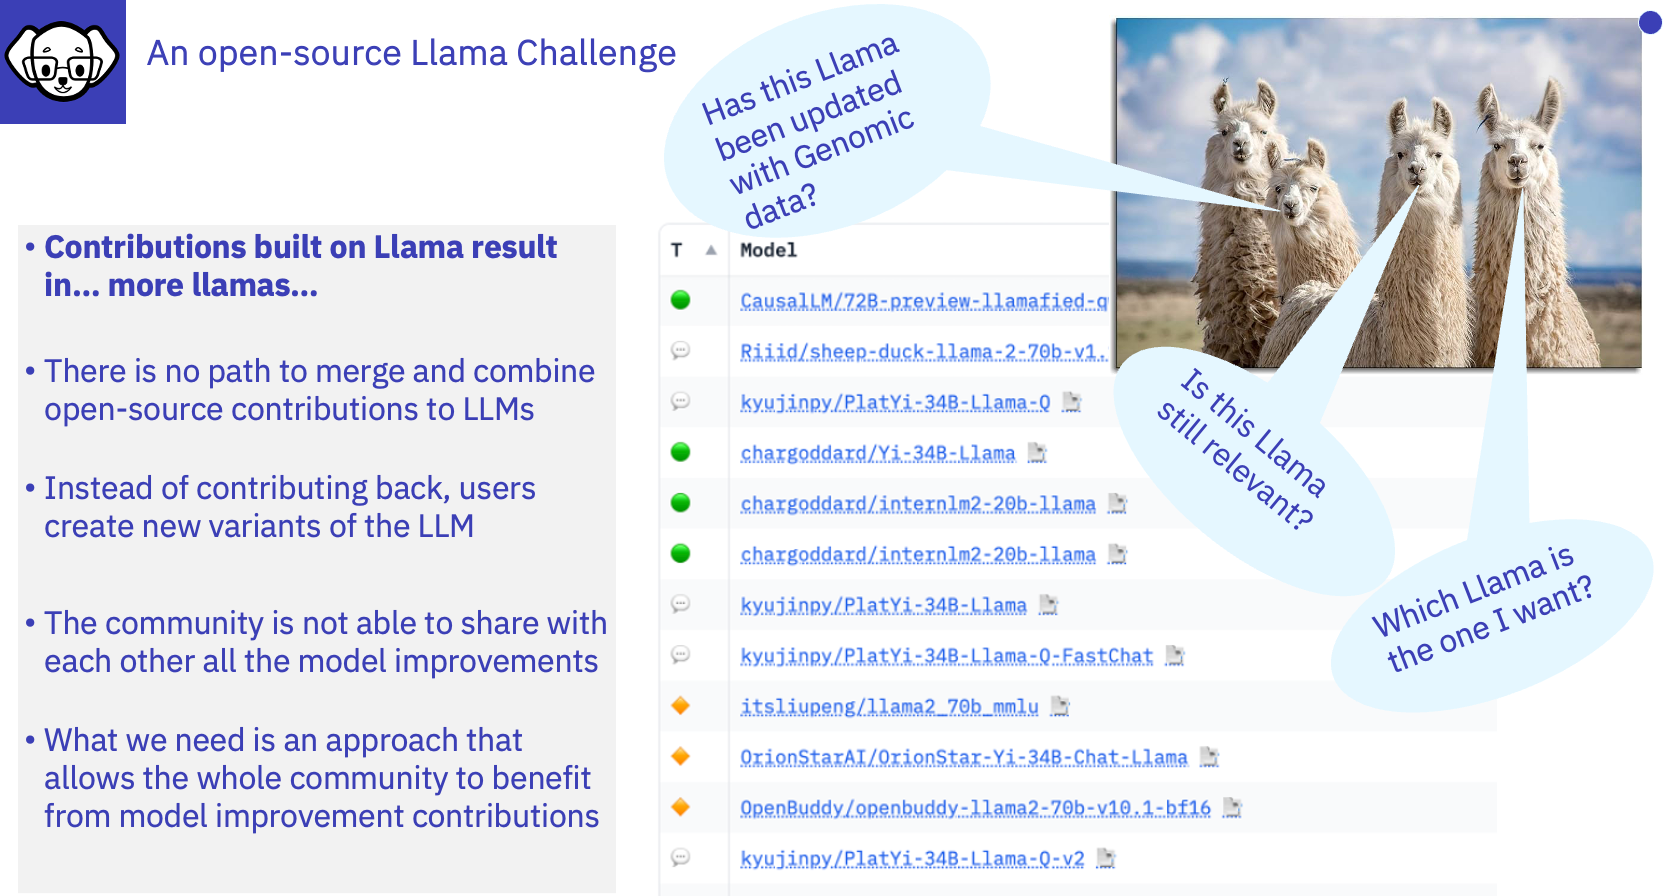
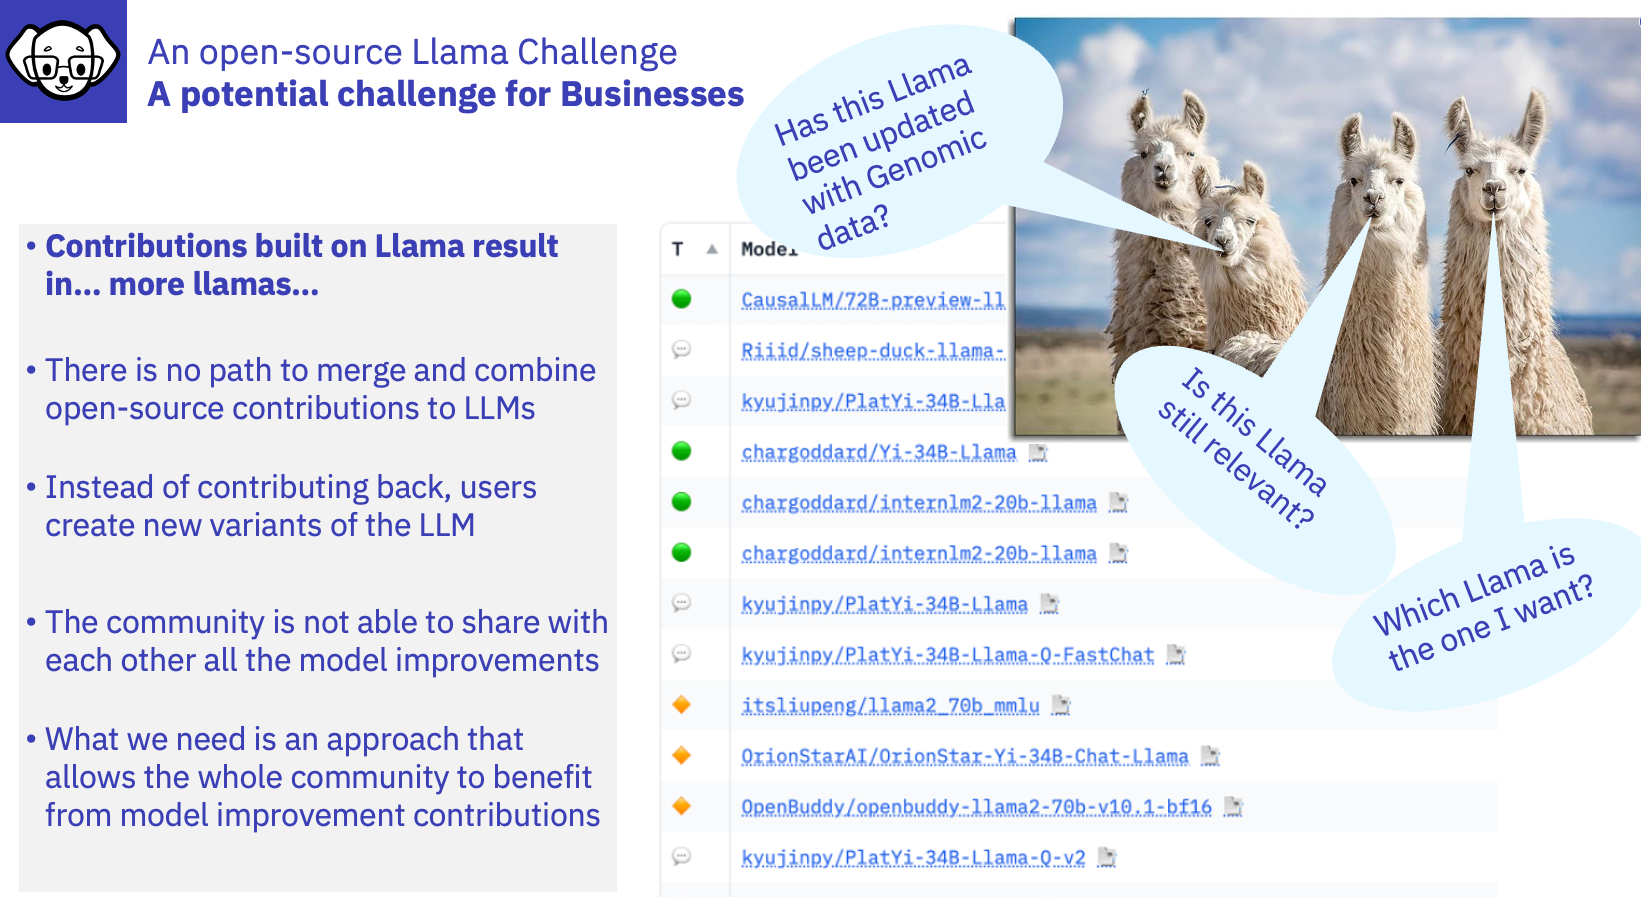
updates

diff --git a/showroom_instructlab_summit2024/content/course _content/0-25 InstructLab and how it helps.md b/showroom_instructlab_summit2024/content/course _content/0-25 InstructLab and how it helps.md
@@ -10,59 +10,14 @@ InstructLab is an **open-source project** originating from IBM Research and Red 
 
 ---
 
-# What you can do with InstructLab
 
-![What InstructLab does](graphics/ILprocess.png)
+# What InstructLab enables businesses to do
 
----
+- Add thier propriatory data to their own model - that is only available to who they choose to share it with
+- Provides a means to easily add their knowledge (manuals, HR processes, procedures)
+- Enables them to add skills (how to guides, translate company specific acronyms)
+- Provides some ability to control and govern the development of their in-house LLM
+- Enables the organisation to capture the providence of information added to the model 
 
-# InstructLab Taxonomy Overview
-
-![InstructLab workflow](graphics/Instructlabtaxonomyoverview.png)
-
-InstructLab is an open source project for enhancing large language models (LLMs) used in generative artificial intelligence (gen AI) applications. Created by IBM and Red Hat, the InstructLab community project provides a cost-effective solution for improving the alignment of LLMs and opens the doors for those with minimal machine learning experience to contribute.
-
-InstructLab, offers developers a powerful toolset to enhance Large Language Models (LLMs) for specific business needs. By addressing the challenges of fine-tuning and deploying LLMs, InstructLab streamlines the training process through taxonomy-driven data curation, large-scale synthetic data generation, and a multi-phased instruction-tuning framework.
-
-
-## The LAB method consists of 3 components:
-- **Taxonomy-driven data curation** Taxonomy is a set of diverse training data curated by humans as examples of new knowledge and skills for the model.
-- **Large-scale synthetic data generation** The model is then used to generate new examples based on the seed training data. Recognizing that synthetic data can vary in quality, the LAB method adds an automated step to refine the example answers, making sure they’re grounded and safe.
-- **Iterative, large-scale alignment tuning** Finally, the model is retrained based on the set of synthetic data. The LAB method includes 2 tuning phases: knowledge tuning, followed by skill tuning.
-
-## Instruct Lab is:
-- an Open-Source project
-- Cost-effective solution for improving the alignment of LLMs 
-- It democratises AI 
-  - You do not have to know linear algebra, statistics, probability theory  
-  - You do not have to be a programmer and know python and r 
-  - You don’t have to know how to do a Pearson correlation or any of the other methods of analysing data  
-
-              
-
-In reality, we all possess valuable knowledge and skills. By capturing this information in flat text files, we can collectively contribute to the development of models using InstructLab. These contribution can be directed towards the original model or tailored to a private model preferred by a client.
-
----
-
-## InstructLab and open source
-We see many Large language models are flourishing in the open, but most are still built in silos. Communities can form around a model, but their contributions can take months or years to be merged back to the base model — if they make their way back at all.
-“There’s no good way to combine all of that innovation into a coherent whole,” said David Cox, vice president for AI models at IBM Research.  InstructLab, is designed to change this by gives communities the tools to create and merge changes to LLMs without having to retrain the model from scratch, making LLMs more like any other open-source software project.
-
----
-
-## How InstructLab operates
-InstructLab operates by augmenting human-curated data with high-quality examples generated by an LLM, thereby reducing the cost of data creation. The data generated by InstructLab can be used to customize or enhance the base model without necessitating a complete retraining, resulting in significant savings. IBM Research has utilized InstructLab to generate synthetic data, enhancing its open-source Granite models for language and code.
-
----
-
-## Links to some papers, blogs, and videos, that provide an overview of InstructLab
-
-[How InstructLab’s synthetic data generation enhances LLMs](https://www.redhat.com/en/blog/how-instructlabs-synthetic-data-generation-enhances-llms)
-by [Cedric Clyburn](https://www.redhat.com/en/authors/cedric-clyburn), and [Legare Kerrison](https://www.redhat.com/en/authors/legare-kerrison)
-
-[Video of Open Source Community Instruction-tuning of Large Lanaguage Models](https://www.youtube.com/watch?v=l-Nq2b8Y-mA)
-presented by [BJ Hargrave](https://www.linkedin.com/in/bjhargrave/)
-
-["InstructLab and why do developers need it?" by Syea Aneeba Begum](https://developer.ibm.com/articles/awb-instructlab-why-developers-need-it/)
 
 

diff --git a/showroom_instructlab_summit2024/content/course _content/0-26 What you can do with InstructLab.md b/showroom_instructlab_summit2024/content/course _content/0-26 What you can do with InstructLab.md
@@ -1,0 +1,58 @@
+# What you can do with InstructLab
+
+![What InstructLab does](graphics/ILprocess.png)
+
+---
+
+# Further Reading (this will be covered in later sections)
+
+# InstructLab Taxonomy and Process Overview
+
+![InstructLab workflow](graphics/Instructlabtaxonomyoverview.png)
+
+InstructLab is an open source project for enhancing large language models (LLMs) used in generative artificial intelligence (gen AI) applications. Created by IBM and Red Hat, the InstructLab community project provides a cost-effective solution for improving the alignment of LLMs and opens the doors for those with minimal machine learning experience to contribute.
+
+InstructLab, offers developers a powerful toolset to enhance Large Language Models (LLMs) for specific business needs. By addressing the challenges of fine-tuning and deploying LLMs, InstructLab streamlines the training process through taxonomy-driven data curation, large-scale synthetic data generation, and a multi-phased instruction-tuning framework.
+
+
+## The LAB method consists of 3 components:
+- **Taxonomy-driven data curation** Taxonomy is a set of diverse training data curated by humans as examples of new knowledge and skills for the model.
+- **Large-scale synthetic data generation** The model is then used to generate new examples based on the seed training data. Recognizing that synthetic data can vary in quality, the LAB method adds an automated step to refine the example answers, making sure they’re grounded and safe.
+- **Iterative, large-scale alignment tuning** Finally, the model is retrained based on the set of synthetic data. The LAB method includes 2 tuning phases: knowledge tuning, followed by skill tuning.
+
+## Instruct Lab is:
+- an Open-Source project
+- Cost-effective solution for improving the alignment of LLMs 
+- It democratises AI 
+  - You do not have to know linear algebra, statistics, probability theory  
+  - You do not have to be a programmer and know python and r 
+  - You don’t have to know how to do a Pearson correlation or any of the other methods of analysing data  
+
+              
+
+In reality, we all possess valuable knowledge and skills. By capturing this information in flat text files, we can collectively contribute to the development of models using InstructLab. These contribution can be directed towards the original model or tailored to a private model preferred by a client.
+
+---
+
+## InstructLab and open source
+We see many Large language models are flourishing in the open, but most are still built in silos. Communities can form around a model, but their contributions can take months or years to be merged back to the base model — if they make their way back at all.
+“There’s no good way to combine all of that innovation into a coherent whole,” said David Cox, vice president for AI models at IBM Research.  InstructLab, is designed to change this by gives communities the tools to create and merge changes to LLMs without having to retrain the model from scratch, making LLMs more like any other open-source software project.
+
+---
+
+## How InstructLab operates
+InstructLab operates by augmenting human-curated data with high-quality examples generated by an LLM, thereby reducing the cost of data creation. The data generated by InstructLab can be used to customize or enhance the base model without necessitating a complete retraining, resulting in significant savings. IBM Research has utilized InstructLab to generate synthetic data, enhancing its open-source Granite models for language and code.
+
+---
+
+## Links to some papers, blogs, and videos, that provide an overview of InstructLab
+
+[How InstructLab’s synthetic data generation enhances LLMs](https://www.redhat.com/en/blog/how-instructlabs-synthetic-data-generation-enhances-llms)
+by [Cedric Clyburn](https://www.redhat.com/en/authors/cedric-clyburn), and [Legare Kerrison](https://www.redhat.com/en/authors/legare-kerrison)
+
+[Video of Open Source Community Instruction-tuning of Large Lanaguage Models](https://www.youtube.com/watch?v=l-Nq2b8Y-mA)
+presented by [BJ Hargrave](https://www.linkedin.com/in/bjhargrave/)
+
+["InstructLab and why do developers need it?" by Syea Aneeba Begum](https://developer.ibm.com/articles/awb-instructlab-why-developers-need-it/)
+
+
